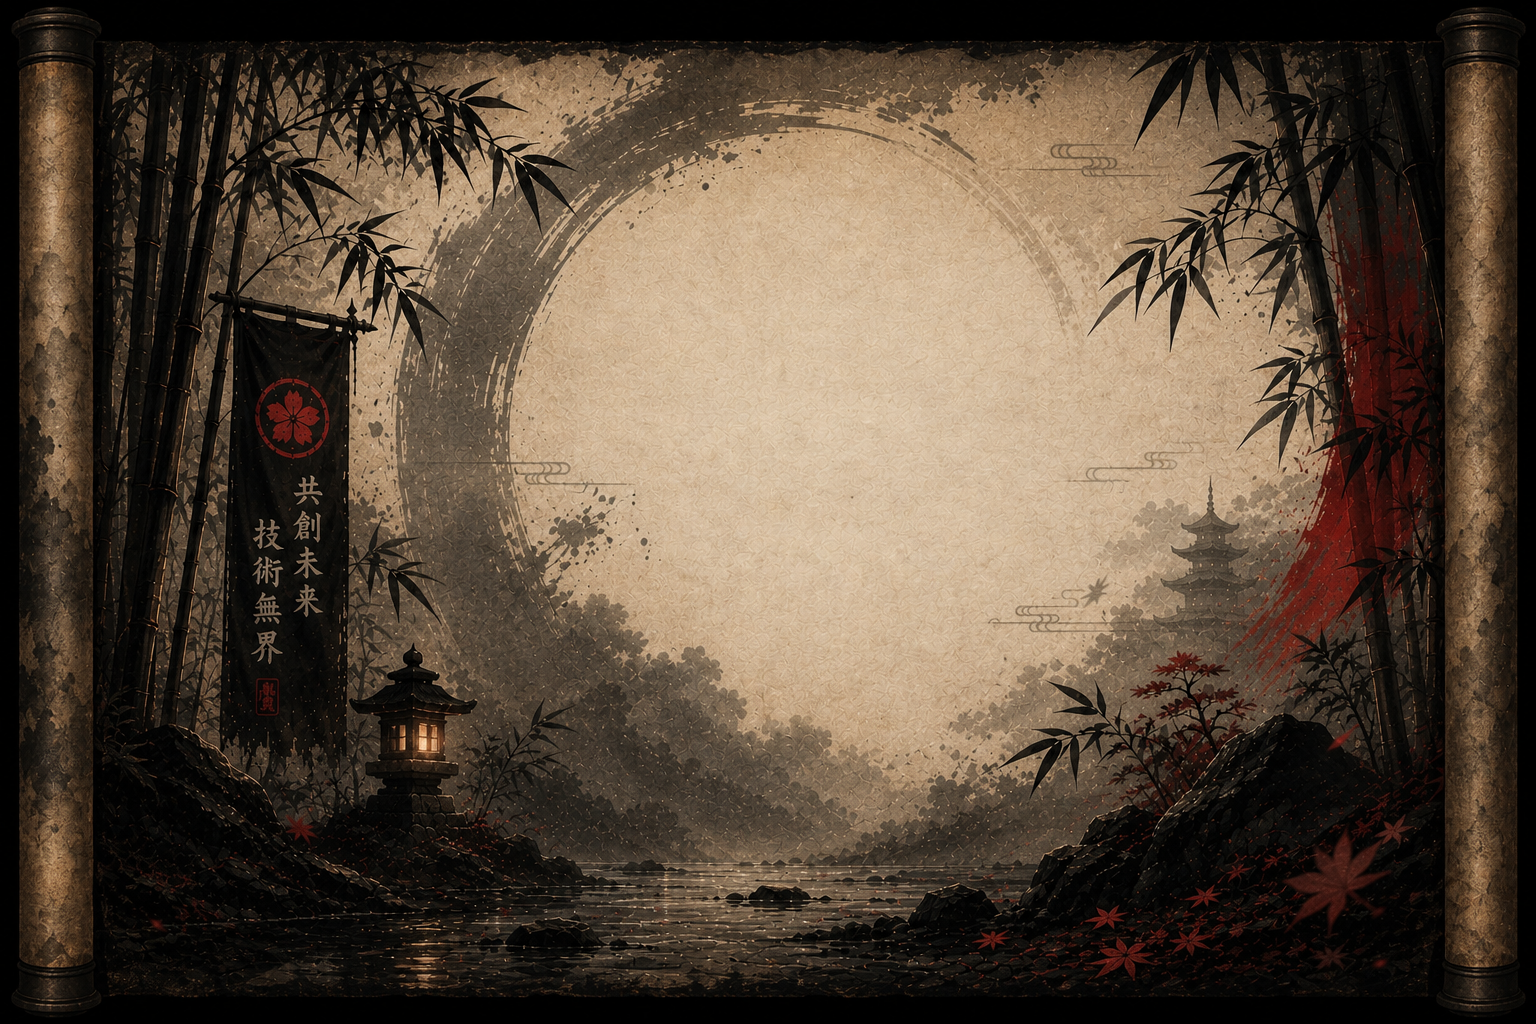
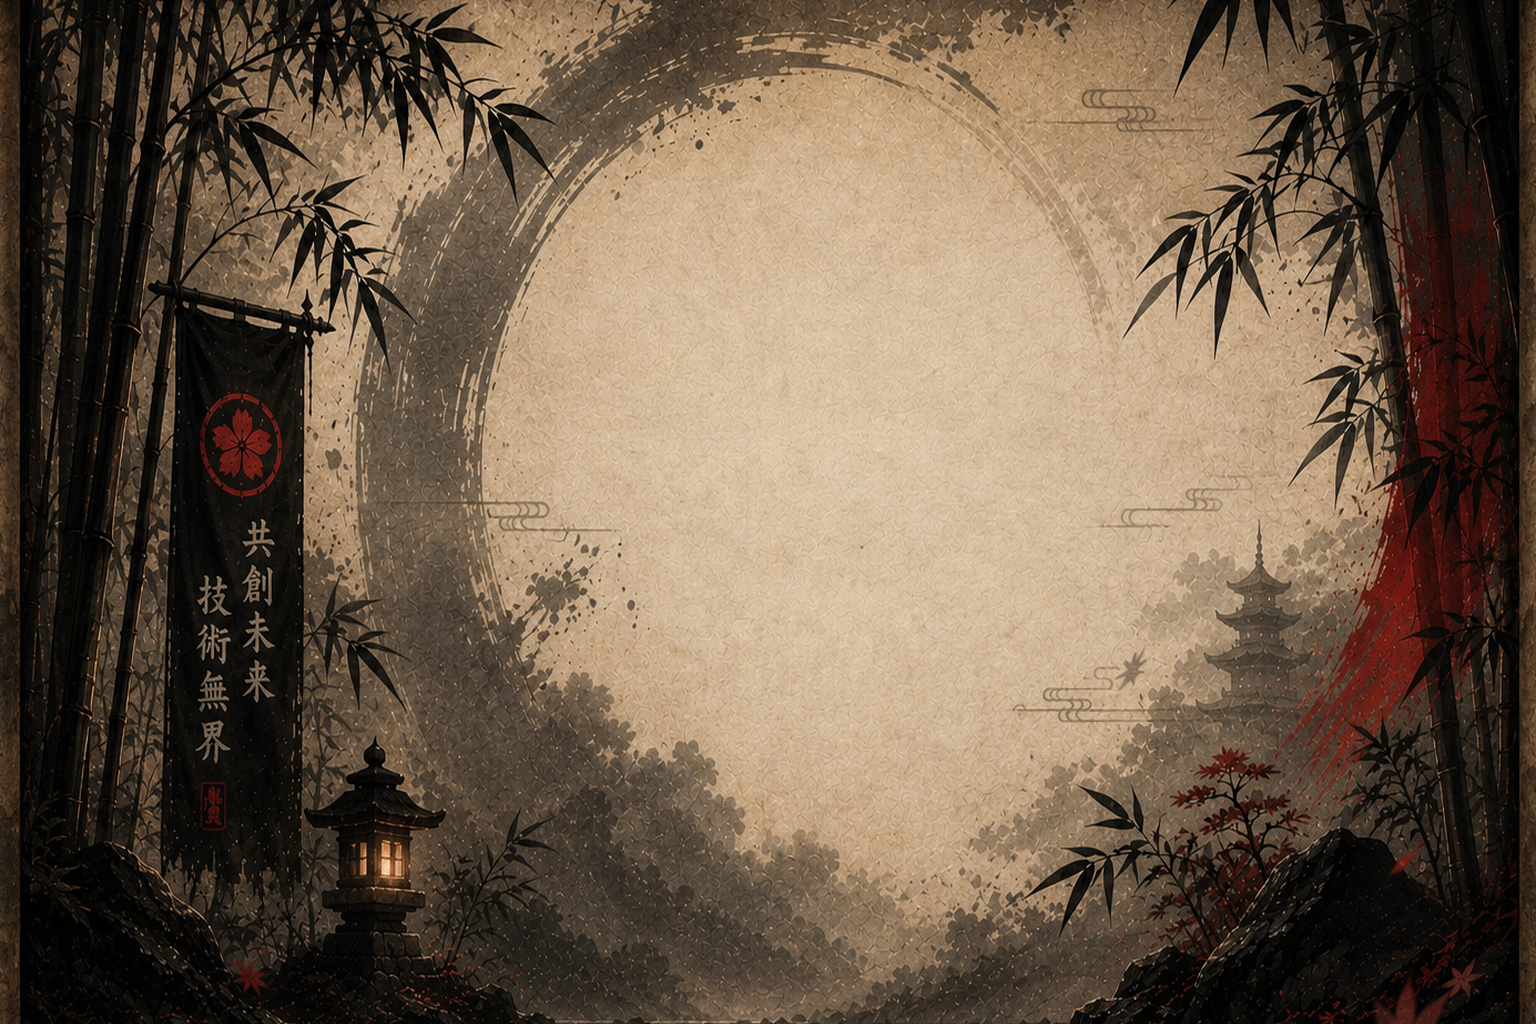
fix(countdown): remove black background margins and enhance top shadow

diff --git a/src/app/components/CountdownSection.tsx b/src/app/components/CountdownSection.tsx
@@ -100,25 +100,26 @@ export default function CountdownSection() {
   return (
     <section
       id="countdown"
-      className="sticky top-0 z-10 py-16 sm:py-20 overflow-hidden bg-[#120f0b] shadow-[0_-25px_50px_rgba(0,0,0,0.95)]"
+      className="sticky top-0 z-10 py-16 sm:py-20 overflow-hidden bg-[#1c140d] shadow-[0_-24px_48px_rgba(0,0,0,0.85),inset_0_24px_32px_-8px_rgba(0,0,0,0.7)]"
       ref={sectionRef}
     >
       <img
         src="/images/countdown-scroll-bg.png"
         alt=""
         aria-hidden="true"
-        className="absolute inset-0 h-full w-full object-cover object-center"
+        className="absolute inset-0 h-full w-full object-cover object-center scale-105"
       />
 
-      {/* Decorative top/bottom lines */}
+      {/* Decorative top/bottom accent lines */}
       <div className="absolute top-0 left-0 right-0 h-px bg-gradient-to-r from-transparent via-[#b91919]/40 to-transparent" />
       <div className="absolute bottom-0 left-0 right-0 h-px bg-gradient-to-r from-transparent via-[#b91919]/25 to-transparent" />
 
-      {/* Subtle warm ambient */}
-      <div className="absolute inset-0 bg-gradient-to-b from-black/35 via-[#F5ECD8]/5 to-black/40 pointer-events-none" />
-      <div className="absolute inset-x-0 top-0 h-24 bg-gradient-to-b from-black/65 to-transparent pointer-events-none" />
-      <div className="absolute inset-x-0 bottom-0 h-24 bg-gradient-to-t from-black/65 to-transparent pointer-events-none" />
-      <div className="absolute top-1/2 left-1/2 -translate-x-1/2 -translate-y-1/2 w-[700px] h-[200px] bg-[#b91919]/5 blur-[100px] pointer-events-none" />
+      {/* Top shadow gradient overlay */}
+      <div className="absolute inset-x-0 top-0 h-16 bg-gradient-to-b from-black/65 via-black/25 to-transparent pointer-events-none" />
+
+      {/* Subtle ambient red glow */}
+      <div className="absolute inset-0 bg-[radial-gradient(ellipse_at_center,rgba(213,30,30,0.06)_0%,transparent_75%)] pointer-events-none" />
+      <div className="absolute top-1/2 left-1/2 -translate-x-1/2 -translate-y-1/2 w-[700px] h-[200px] bg-[#b91919]/8 blur-[100px] pointer-events-none" />
 
       <div className="relative z-10 max-w-[960px] mx-auto px-5">
         {/* Label */}
